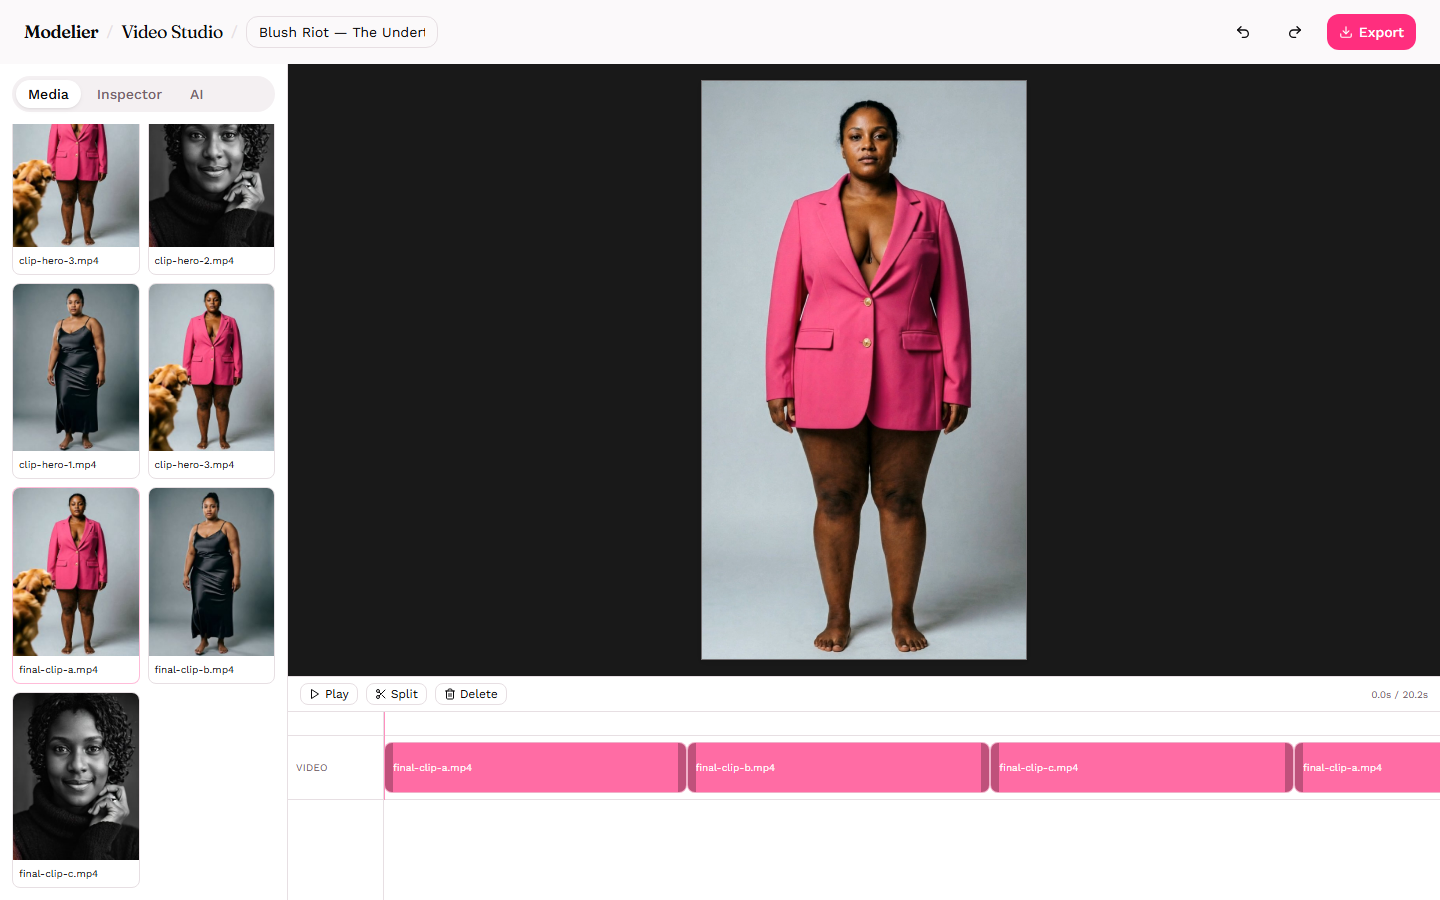
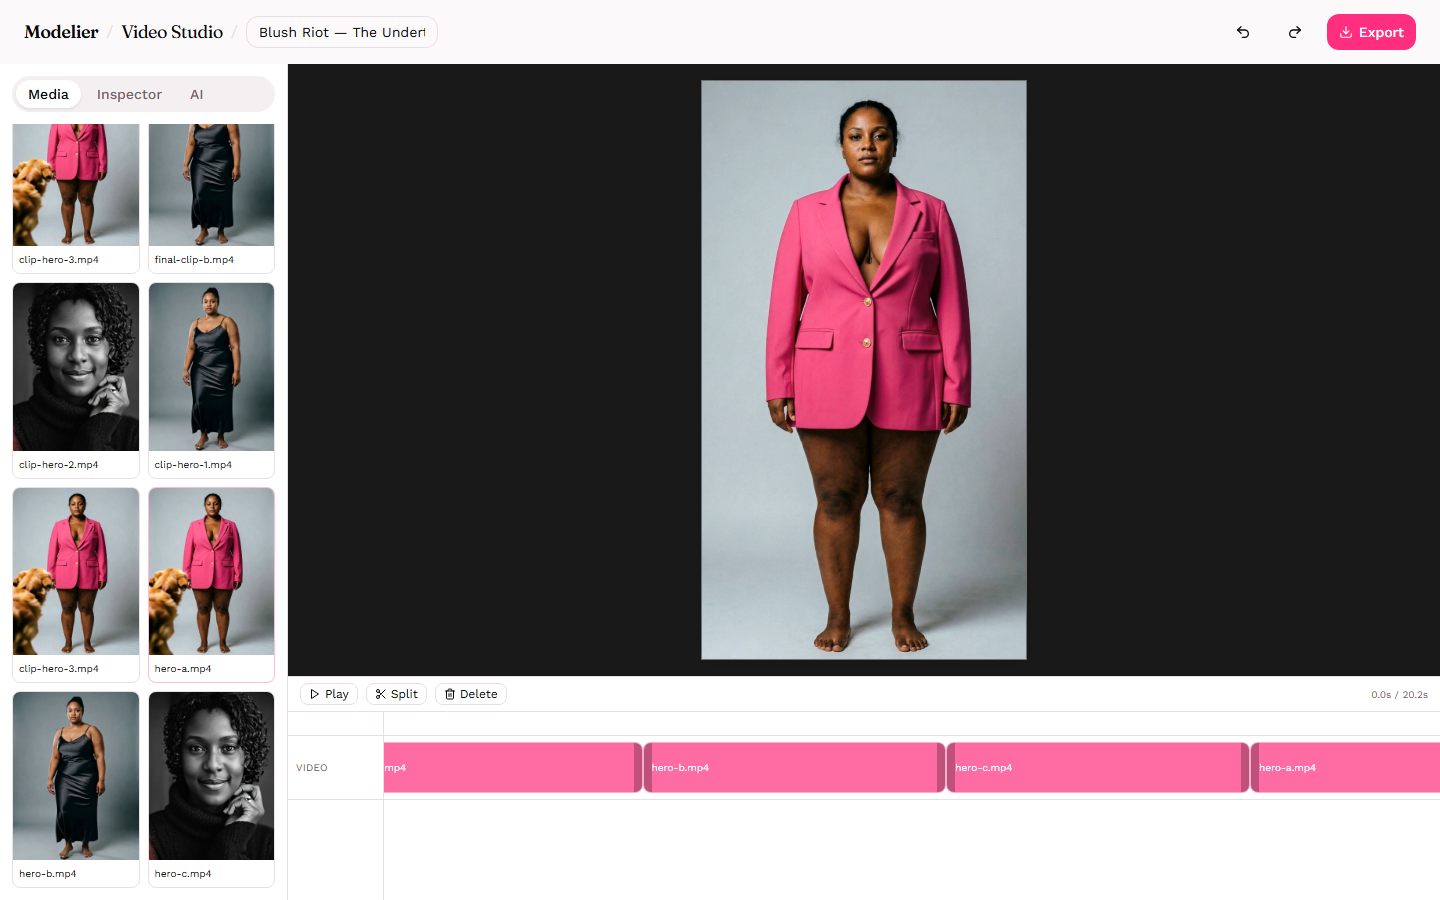
feat: enhance video project media handling and update MediaLibrary component
Implement a new API route for uploading media files to video projects, ensuring assets have permanent HTTPS URLs for cross-device access. Update the MediaLibrary component to support this new functionality, allowing for seamless media import and fallback options. Additionally, revise the VideoEditor component to utilize the updated MediaLibrary with project-specific IDs.

diff --git a/components/video/VideoEditor.tsx b/components/video/VideoEditor.tsx
@@ -45,9 +45,11 @@ const VideoEditor = ({ project }: { project: VideoProjectData }) => {
   const dirtyRef = useRef(false);
 
   // A clip generated in AI Model Studio's image_to_video flow arrives here as a
-  // remote URL (see AIModelStudioPanel.tsx's "Send to Video Studio" action) — fetch
-  // it once, then treat it exactly like any other locally imported media from then
-  // on (OPFS-persisted, no re-fetching), same "no uploads" model as a file import.
+  // remote URL (see AIModelStudioPanel.tsx's "Send to Video Studio" action) —
+  // already a permanent Supabase-hosted URL (rehostResultFile ran when the
+  // generation first succeeded), so it's kept as-is rather than replaced with a
+  // session-scoped blob: URL. Still cached to OPFS for a fast local path in this
+  // browser, same "no re-fetching" model as a raw file import.
   useEffect(() => {
     const importUrl = searchParams.get("importUrl");
     if (!importUrl) return;
@@ -61,7 +63,7 @@ const VideoEditor = ({ project }: { project: VideoProjectData }) => {
         const id = uuidv4();
         const probed = await probeMedia(file);
         await saveMediaFile(id, file);
-        const asset: MediaAsset = { id, url: URL.createObjectURL(file), ...probed };
+        const asset: MediaAsset = { id, url: importUrl, ...probed };
         storeRef.current.getState().addMedia(asset);
         storeRef.current.getState().appendMediaClip(id);
         setStatusMessage("Imported the clip from AI Model Studio.");
@@ -176,7 +178,7 @@ const VideoEditor = ({ project }: { project: VideoProjectData }) => {
                 <TabsTrigger value="ai">AI</TabsTrigger>
               </TabsList>
               <TabsContent value="media" className="flex-1 overflow-y-auto">
-                <MediaLibrary />
+                <MediaLibrary projectId={project.id} />
               </TabsContent>
               <TabsContent value="inspector" className="flex-1 overflow-y-auto">
                 <Inspector />

diff --git a/components/video/MediaLibrary.tsx b/components/video/MediaLibrary.tsx
@@ -9,7 +9,7 @@ import { probeMedia } from "@/lib/video-engine/probe";
 import { saveMediaFile, isStorageSupported } from "@/lib/video-engine/storage";
 import type { MediaAsset } from "@/lib/video-engine/types";
 
-const MediaLibrary = () => {
+const MediaLibrary = ({ projectId }: { projectId: string }) => {
   const storeApi = useTimelineStoreApi();
   // Select the raw map (a stable reference between renders) and derive the list in
   // the component body — a selector that allocates a new array every call (e.g.
@@ -27,7 +27,25 @@ const MediaLibrary = () => {
         const id = uuidv4();
         const probed = await probeMedia(file);
         await saveMediaFile(id, file);
-        const asset: MediaAsset = { id, url: URL.createObjectURL(file), ...probed };
+
+        // Re-host to Supabase Storage for a permanent, cross-device URL — an
+        // OPFS-only blob: URL only ever works back in the exact browser that
+        // imported it, which breaks the moment anyone else (a judge on a
+        // shared demo account, or the same person on a different device)
+        // opens this project. Fall back to the session-local blob if the
+        // upload fails, so import still works offline/without a hiccup.
+        let url = URL.createObjectURL(file);
+        try {
+          const form = new FormData();
+          form.set("file", file);
+          form.set("mediaId", id);
+          const res = await fetch(`/api/video-projects/${projectId}/media`, { method: "POST", body: form });
+          if (res.ok) url = (await res.json()).url;
+        } catch {
+          // Keep the local blob: URL fallback set above.
+        }
+
+        const asset: MediaAsset = { id, url, ...probed };
         storeApi.getState().addMedia(asset);
       } catch (err) {
         console.error("Failed to import media", err);

diff --git a/app/api/video-projects/[id]/media/route.ts b/app/api/video-projects/[id]/media/route.ts
@@ -1,0 +1,40 @@
+import { NextResponse } from "next/server";
+
+import { auth } from "@/lib/auth";
+import { db } from "@/lib/db";
+import { uploadPublicFile } from "@/lib/storage";
+
+// Raw imported media (Media panel drag-and-drop) previously lived ONLY in
+// OPFS + a session-scoped blob: URL — real for the browser that imported it,
+// dead everywhere else (a different browser, a different device, or anyone
+// else opening this project, e.g. a judge on the demo account). Re-hosting
+// here gives every asset a permanent HTTPS URL that any browser can actually
+// fetch, same as every other media type in this app already gets.
+export async function POST(req: Request, { params }: { params: { id: string } }) {
+  const session = await auth();
+  if (!session?.user?.id) {
+    return NextResponse.json({ error: "Not authenticated." }, { status: 401 });
+  }
+
+  const videoProject = await db.videoProject.findUnique({ where: { id: params.id } });
+  if (!videoProject || videoProject.userId !== session.user.id) {
+    return NextResponse.json({ error: "Video project not found." }, { status: 404 });
+  }
+
+  const form = await req.formData();
+  const file = form.get("file");
+  const mediaId = form.get("mediaId");
+  if (!(file instanceof File) || typeof mediaId !== "string" || !mediaId) {
+    return NextResponse.json({ error: "A file and mediaId are required." }, { status: 400 });
+  }
+
+  const buffer = Buffer.from(await file.arrayBuffer());
+  const ext = file.name.includes(".") ? file.name.split(".").pop() : "bin";
+  const url = await uploadPublicFile(
+    `video-project-media/${videoProject.id}/${mediaId}.${ext}`,
+    buffer,
+    file.type || "application/octet-stream"
+  );
+
+  return NextResponse.json({ url });
+}

diff --git a/README.md b/README.md
@@ -9,6 +9,58 @@ Built on top of a real-time collaborative canvas editor (Next.js 14 + fabric.js
 + Liveblocks), with an "AI Model Studio" panel layered on top for the apparel
 and beauty virtual try-on flows described in `PRD_MO~1.MD`.
 
+## Why we're building this
+
+Independent jewelry and apparel sellers are shut out of the two things that
+actually move product online: professional photography and virtual try-on.
+A single-day studio shoot for a small apparel brand runs
+[$1,000–$5,000](https://www.squareshot.com/post/clothing-brand-photoshoot-cost)
+just for the photographer, and a full campaign (models, styling, retouching)
+lands at $14,000–$22,000 for maybe 30–60 finished images. That cost structure
+only works for a brand already big enough to amortize it — everyone below
+that line is stuck reusing supplier photos, or none at all.
+
+Meanwhile the sellers who need this most are shrinking as a share of the
+market: **35% of jewelry retail is still independent** (down from 42% in
+2020, per [IBISWorld](https://www.ibisworld.com/united-states/industry/jewelry-designers/6504/)),
+losing ground specifically to brands that *can* afford this kind of content.
+Modelier's bet is that the same AI infrastructure the big players use —
+CAD design, virtual try-on, generative photo/video — should be available to
+a one-person shop as a single subscription, not a stack of five vendors.
+
+## Market opportunity
+
+- **Apparel returns are a $ and sustainability problem VTO directly attacks.**
+  Online apparel return rates run **20–40%** (higher than any other
+  e-commerce category — electronics run 8–15%, beauty 4–12%), and more than
+  half of those returns are fit/sizing-related
+  ([Richpanel](https://www.richpanel.com/learn/ecommerce-return-rates),
+  [Ringly](https://www.ringly.io/blog/ecommerce-return-statistics-2026)).
+  Virtual try-on has been shown to cut return rates by
+  [25–40%](https://www.getfocal.co/post/virtual-try-on-in-e-commerce-a-research-summary)
+  and lift conversion by
+  [20–40%](https://uwear.ai/solutions/increase-conversion-rate) — a direct
+  line from a feature we already ship to a seller's bottom line.
+- **Generative AI in fashion is early and growing fast.** The generative-AI-
+  in-fashion market is forecast to grow from roughly $0.18B (2025) to $0.25B
+  in 2026, at a **~38% CAGR**, reaching an estimated $0.74B by 2030
+  ([The Business Research Company](https://www.thebusinessresearchcompany.com/report/generative-ai-in-fashion-global-market-report)).
+  Early enough that no single tool owns "the one place a small brand does
+  this," which is the gap Modelier is aimed at.
+- **Small businesses are already buying AI tools, just not integrated ones.**
+  58% of small businesses now use at least one AI tool (up from ~23% in
+  2023), and **27% already use AI specifically for image/visual content
+  generation** — but the same data shows most of that adoption is scattered,
+  single-purpose tools with no formal workflow around them
+  ([theStacc](https://thestacc.com/blog/small-business-ai-adoption-statistics/)).
+  That's the exact gap a single connected pipeline (CAD → photo → video →
+  branded template) is meant to close, instead of one more disconnected point
+  solution.
+- **Discovery has moved to short-form video.** [46% of shoppers](https://autofaceless.ai/blog/social-commerce-statistics-2026)
+  now say social platforms are where they discover what to buy — which is
+  why Video Studio isn't a bolt-on, it's the natural output of the same
+  pipeline that already made the photo.
+
 ## What's actually implemented
 
 - **Apparel flow**: upload a flat-lay/mannequin photo, pick a category (top /
@@ -47,6 +99,13 @@ explore, no setup required beyond running the app:
 
 Log in with these at `/login` after starting the app (see **Setup** below) to
 see everything already built, rather than an empty new account.
+
+## Demo video
+
+[Watch the 3-minute walkthrough](https://youtu.be/1-rzN3CNLnA) — recorded
+live against the account above, screen-captured on the actual desktop browser
+this app is built for (see `DEMO_SCRIPT.md` for the shot-by-shot script and
+which YouCam endpoints are called out on camera).
 
 ## Prerequisites
 
@@ -152,3 +211,61 @@ Seeded by `npm run db:seed-reference-models`:
 | `cm0refmodel000000000000002` | Model B — medium olive, athletic |
 | `cm0refmodel000000000000003` | Model C — deep warm, curvy |
 | `cm0refmodel000000000000004` | Model D — rich neutral, plus |
+
+## Roadmap
+
+Roughly in build order, each phase assuming the one before it has real users
+on it rather than shipping speculatively:
+
+1. **Manufacturing handoff for Jewelry CAD.** STL/STEP export already works;
+   next is a direct submission flow to small-batch casters/3D-printing
+   services, so a design goes from slider to a physical sample without ever
+   leaving the app.
+2. **Commerce integration.** A Shopify/Etsy listing sync — push a finished
+   render or CAD export straight to an existing storefront instead of a
+   manual re-upload, and pull in a seller's existing product catalog as the
+   VTO source photo instead of requiring a fresh upload.
+3. **Team accounts.** Right now every account is a single Liveblocks room;
+   a small studio (a designer + a shop owner + a photographer) needs shared
+   projects with per-seat access, not one shared login.
+4. **Analytics on what actually converts.** Which generated variant, which
+   template, which color-harmony match a seller actually published and sold
+   against — closing the loop the VTO conversion/return-rate research above
+   only speaks to in the abstract.
+5. **Mobile capture companion.** A lightweight phone-camera flow for the flat-
+   lay/product photo step specifically (the one part of this pipeline that
+   still has to start on a physical object), feeding straight into the
+   desktop studios rather than becoming a second full app.
+6. **Adjacent verticals**, per the use cases identified in `hackathon.md`:
+   watch and eyewear resellers (near-identical VTO shape to jewelry), bridal
+   party group sessions, and B2B wholesale catalogs for manufacturers
+   generating VTO sets for retail partners instead of shipping physical
+   samples.
+
+## Go-to-market plan
+
+- **Phase 1 — design-partner beta (now–3 months).** A small cohort (10–20)
+  of independent jewelry and apparel sellers recruited directly from Etsy
+  seller communities, small-batch jewelry trade shows, and maker-focused
+  subreddits/Discords — free access in exchange for direct feedback, since
+  the studios (CAD, VTO, video) need real sellers' actual products to prove
+  out edge cases synthetic test content can't surface.
+- **Phase 2 — self-serve launch (3–9 months).** Tiered subscription pricing
+  keyed to YouCam unit consumption (a hard cost this app already has to pass
+  through), with a free tier capped on generations/month as the actual
+  acquisition funnel — content marketing around the same cost comparison
+  this README opens with ("what a photoshoot actually costs vs. this"), plus
+  a Shopify App Store listing once the commerce integration above ships,
+  since that's where most of this exact seller segment already has a
+  storefront.
+- **Phase 3 — vertical expansion (9+ months).** Once apparel/jewelry retention
+  is proven, expand into the adjacent verticals from the Roadmap — each is a
+  copy of the same VTO/CAD/video pipeline with a different product category
+  and reference-model set, not a rebuild.
+- **Durable moat, not just first-mover speed.** Any single studio here (VTO,
+  CAD, video) is individually replicable by a competitor calling the same
+  YouCam API. What's harder to replicate is the *connected* pipeline — a
+  render that's already inside a branded template, a CAD export that's
+  already framed by the same brand kit, a still that's already become a
+  video ad — which is the actual product decision this whole build is built
+  around, not any one feature in isolation.

diff --git a/hackathon.md b/hackathon.md
@@ -52,6 +52,16 @@ Blush Riot (built on Modelier) gives a solo jewelry or apparel seller a professi
 
 https://github.com/hatif03/modelier
 
+## Demo video
+
+https://youtu.be/1-rzN3CNLnA
+
+A 3-minute walkthrough recorded live against the real demo account (see
+README's "Demo account" section) — Jewelry CAD Studio, AI Model Studio (with
+the specific YouCam endpoints named on camera), the canvas template drop-in,
+and Video Studio, in that order. Shot-by-shot script and the reasoning behind
+each beat: `DEMO_SCRIPT.md`.
+
 ## A moment the API surprised us
 
 The Photo Enhance endpoint rejecting *every single call* until we noticed the docs never mentioned `scale` (1/2/4×) was required at all — it's not in the "required" list judges would see skimming the reference page, only in the full request schema. Small omission, total blocker, and a good reminder that "read the docs" and "call the API" are different levels of verification.
